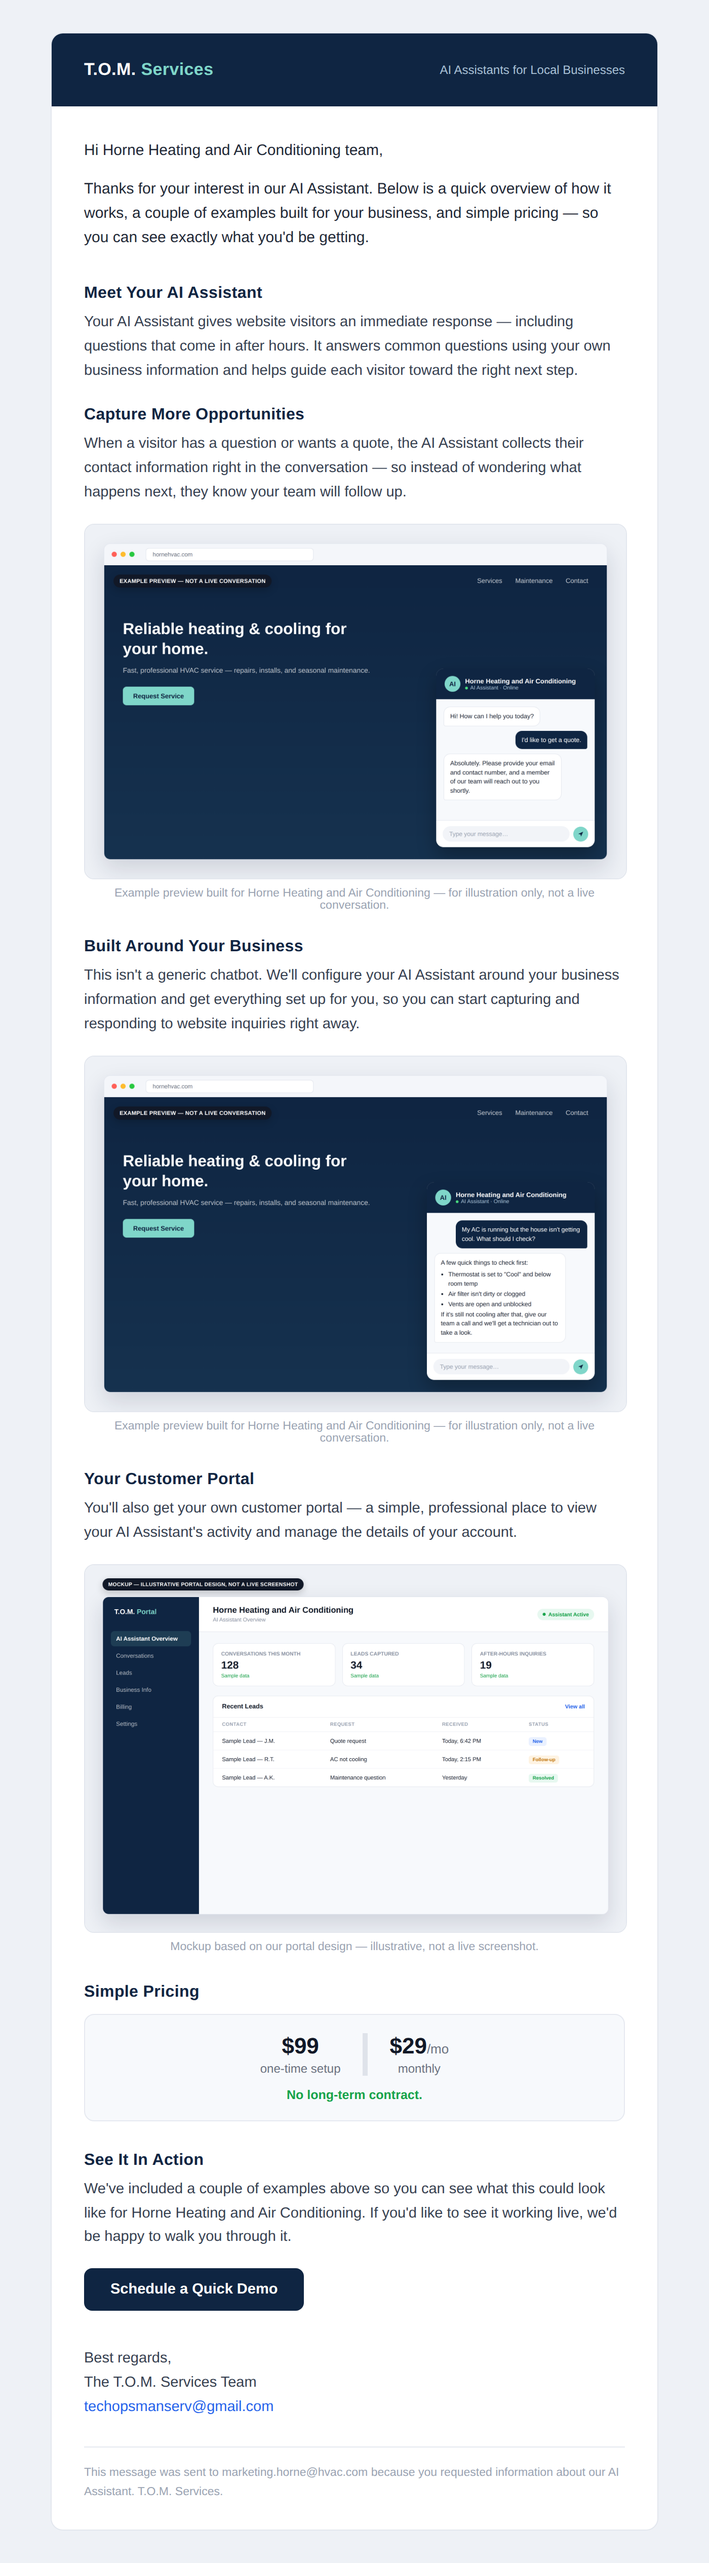
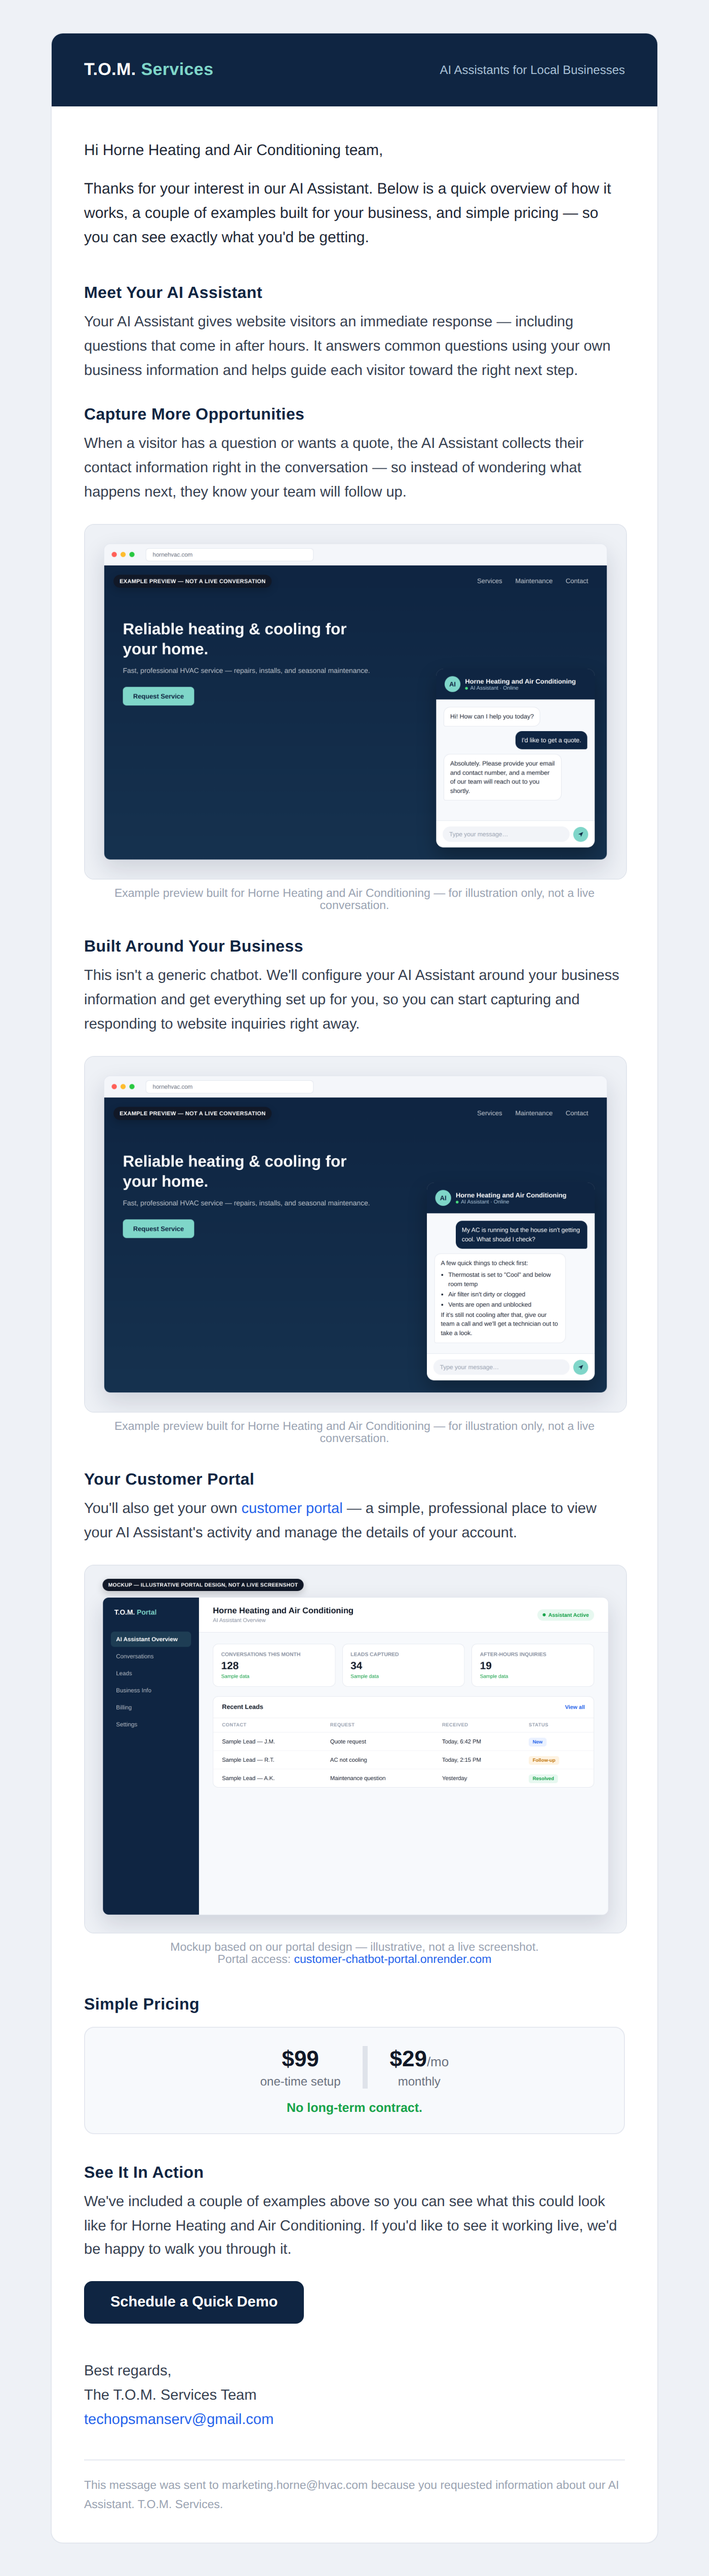
Wire real demo and customer portal links into the Horne AI Assistant email
Point the "Schedule a Quick Demo" CTA at the Calendly link and link the
customer portal section to the live portal URL, in both the Horne-specific
email and the reusable template (portal URL is fixed product-wide, so it's
hardcoded there rather than left as a placeholder).

Claude-Session: https://claude.ai/code/session_01SKjBUZNkQ2dCUdPYnSy53N

diff --git a/marketing/horne-ai-assistant/email-horne-FINAL.html b/marketing/horne-ai-assistant/email-horne-FINAL.html
@@ -97,7 +97,7 @@
     <td style="padding:26px 32px 0; font-family:Arial, Helvetica, sans-serif;">
       <h2 style="margin:0 0 8px; font-size:16px; color:#0f2542; letter-spacing:.2px;">Your Customer Portal</h2>
       <p style="margin:0; font-size:14.5px; line-height:1.65; color:#374151;">
-        You'll also get your own customer portal — a simple, professional place to view your AI Assistant's activity and manage the details of your account.
+        You'll also get your own <a href="https://customer-chatbot-portal.onrender.com" style="color:#2563eb; text-decoration:none;">customer portal</a> — a simple, professional place to view your AI Assistant's activity and manage the details of your account.
       </p>
     </td>
   </tr>
@@ -107,7 +107,8 @@
     <td style="padding:18px 32px 0;">
       <img src="assets/customer-portal-screenshot.png" width="536" alt="Mockup of the customer portal AI Assistant overview screen" style="width:100%; max-width:536px; height:auto; display:block; border-radius:10px; border:1px solid #e3e7ee;">
       <p style="margin:8px 0 0; font-family:Arial, Helvetica, sans-serif; font-size:11.5px; color:#9aa3b2; text-align:center;">
-        Mockup based on our portal design — illustrative, not a live screenshot.
+        Mockup based on our portal design — illustrative, not a live screenshot.<br>
+        Portal access: <a href="https://customer-chatbot-portal.onrender.com" style="color:#2563eb; text-decoration:none;">customer-chatbot-portal.onrender.com</a>
       </p>
     </td>
   </tr>
@@ -149,7 +150,7 @@
       <table role="presentation" cellpadding="0" cellspacing="0" border="0">
         <tr>
           <td align="center" style="border-radius:8px; background-color:#0f2542;">
-            <a href="[DEMO CALENDAR LINK]" style="display:inline-block; padding:13px 26px; font-family:Arial, Helvetica, sans-serif; font-size:14.5px; font-weight:bold; color:#ffffff; text-decoration:none; border-radius:8px;">
+            <a href="https://calendly.com/techopsmanserv/30min" style="display:inline-block; padding:13px 26px; font-family:Arial, Helvetica, sans-serif; font-size:14.5px; font-weight:bold; color:#ffffff; text-decoration:none; border-radius:8px;">
               Schedule a Quick Demo
             </a>
           </td>

diff --git a/marketing/horne-ai-assistant/email-template-REUSABLE.html b/marketing/horne-ai-assistant/email-template-REUSABLE.html
@@ -119,7 +119,7 @@
     <td style="padding:26px 32px 0; font-family:Arial, Helvetica, sans-serif;">
       <h2 style="margin:0 0 8px; font-size:16px; color:#0f2542; letter-spacing:.2px;">Your Customer Portal</h2>
       <p style="margin:0; font-size:14.5px; line-height:1.65; color:#374151;">
-        You'll also get your own customer portal — a simple, professional place to view your AI Assistant's activity and manage the details of your account.
+        You'll also get your own <a href="https://customer-chatbot-portal.onrender.com" style="color:#2563eb; text-decoration:none;">customer portal</a> — a simple, professional place to view your AI Assistant's activity and manage the details of your account.
       </p>
     </td>
   </tr>
@@ -129,7 +129,8 @@
     <td style="padding:18px 32px 0;">
       <img src="assets/customer-portal-screenshot.png" width="536" alt="Mockup of the customer portal AI Assistant overview screen" style="width:100%; max-width:536px; height:auto; display:block; border-radius:10px; border:1px solid #e3e7ee;">
       <p style="margin:8px 0 0; font-family:Arial, Helvetica, sans-serif; font-size:11.5px; color:#9aa3b2; text-align:center;">
-        Mockup based on our portal design — illustrative, not a live screenshot.
+        Mockup based on our portal design — illustrative, not a live screenshot.<br>
+        Portal access: <a href="https://customer-chatbot-portal.onrender.com" style="color:#2563eb; text-decoration:none;">customer-chatbot-portal.onrender.com</a>
       </p>
     </td>
   </tr>

diff --git a/marketing/horne-ai-assistant/README.md b/marketing/horne-ai-assistant/README.md
@@ -12,8 +12,14 @@ Design/content package only. Nothing here was sent or deployed.
 - `assets/customer-portal-screenshot.png` — mockup of the customer portal AI Assistant overview screen. This repository does not contain the actual approved portal UI, so this is an illustrative mockup, not a real product screenshot — labeled as such in the image itself.
 - `assets/src-*.html` — editable source for the three mockups (used to render the PNGs via a headless browser). Edit and re-render these to produce new screenshots for future prospects/industries.
 
+## Live links already wired in
+
+- CTA button ("Schedule a Quick Demo") → `https://calendly.com/techopsmanserv/30min`
+- Customer portal → `https://customer-chatbot-portal.onrender.com` (linked from the "Your Customer Portal" paragraph and under the portal screenshot)
+
+The reusable template keeps `[DEMO CALENDAR LINK]` as a placeholder (a future prospect/rep may use a different scheduling link) but hardcodes the portal URL, since that's the same product URL for every customer.
+
 ## Before sending (not done here)
 
 - Replace the local `assets/...png` image paths in the HTML with hosted HTTPS URLs, or attach the images as inline CID attachments — most inboxes cannot resolve local/relative file paths, and inlining them as base64 would push the message over Gmail's clipping threshold.
-- Replace `[DEMO CALENDAR LINK]` with a real scheduling link.
 - Confirm the "No long-term contract" pricing claim against current business policy before this or any future version goes out.
